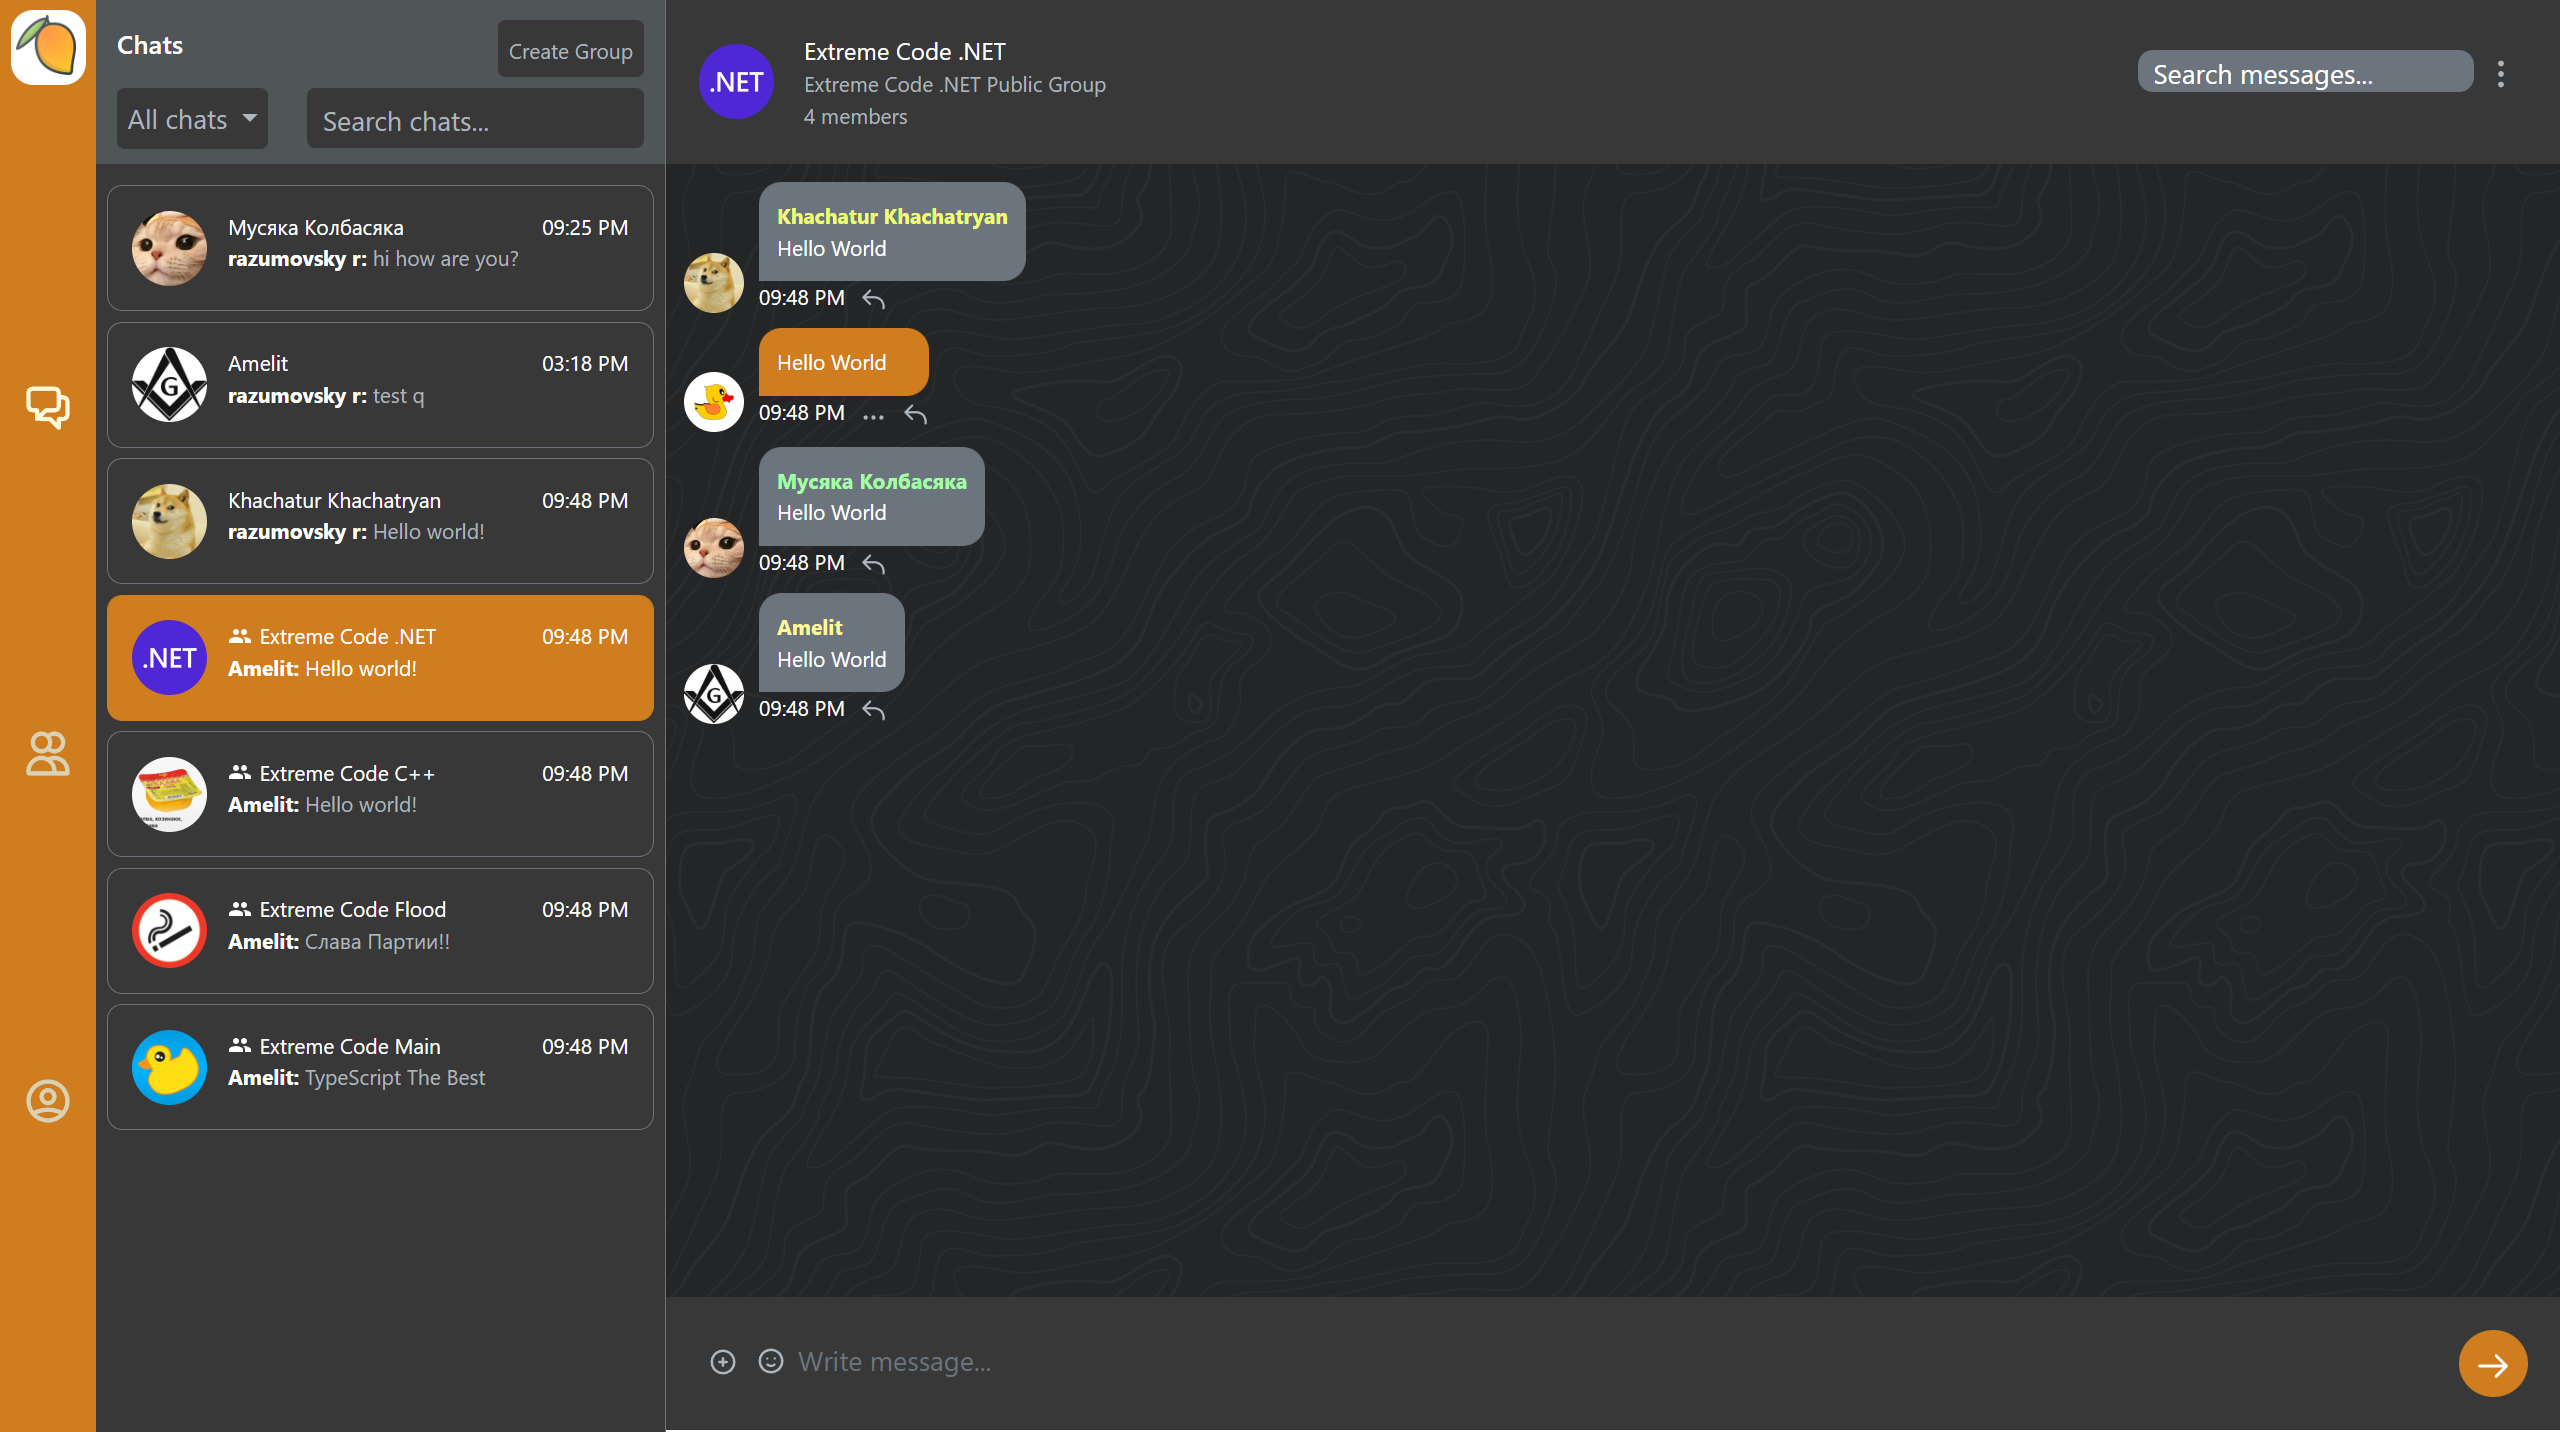
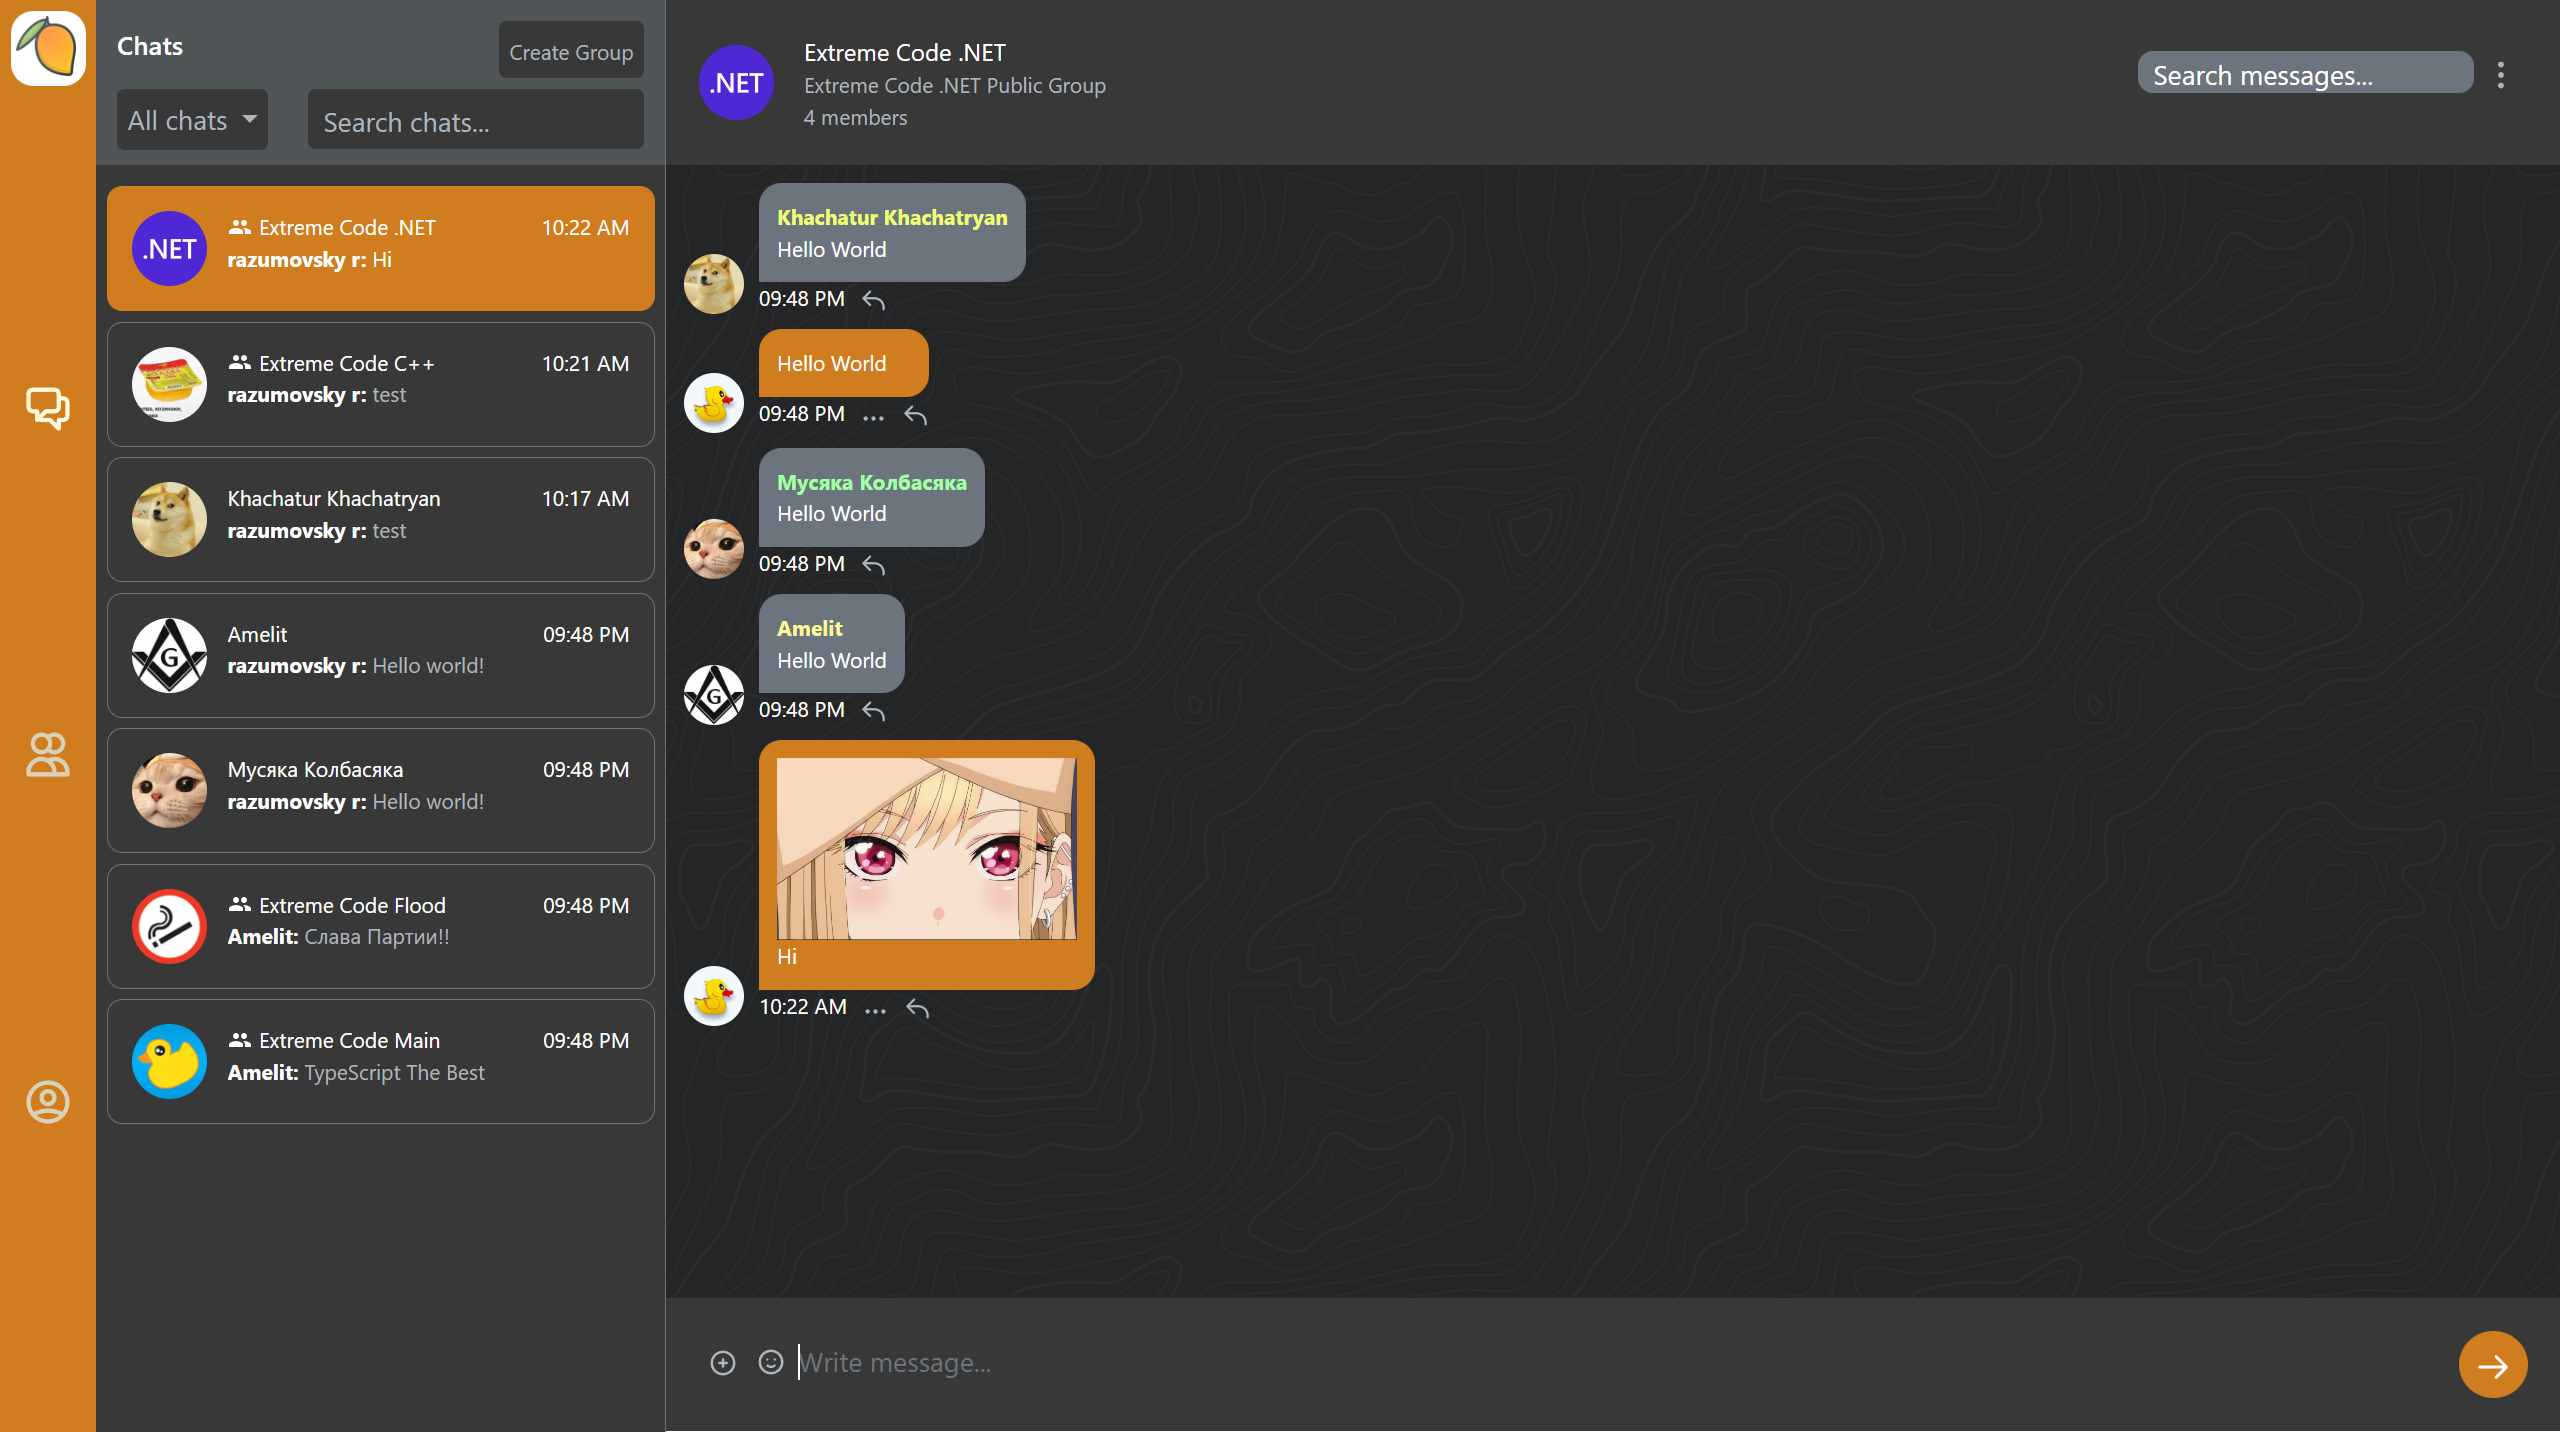
changelog update | chats image update

diff --git a/MangoAPI.Client/src/environments/environment.prod.ts b/MangoAPI.Client/src/environments/environment.prod.ts
@@ -1,5 +1,4 @@
 export const environment = {
   production: true,
   baseUrl: 'https://app-messenger-d01.azurewebsites.net/'
-
 };

diff --git a/CHANGELOG.md b/CHANGELOG.md
@@ -9,6 +9,7 @@ and this project adheres to [Semantic Versioning v2.0.0](https://semver.org/spec
 
 ### Changed
 
+- Message file attachment implemented (by @islamumarov)
 - CI/CD pipelines separated into two separate files
 - Implement terraform infrastructure as code
 - Azure pipelines CI/CD trigger approval added for: Sonarcloud, Mend bolt scan jobs
